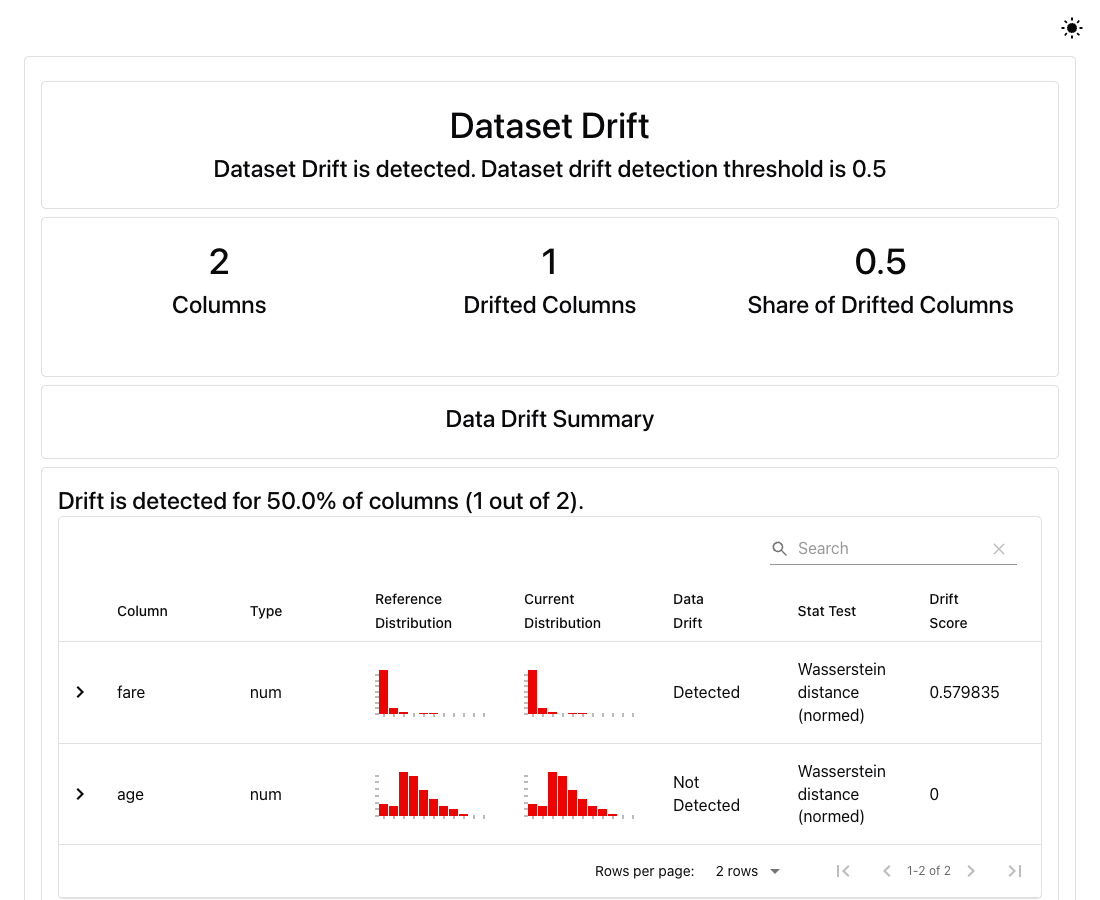
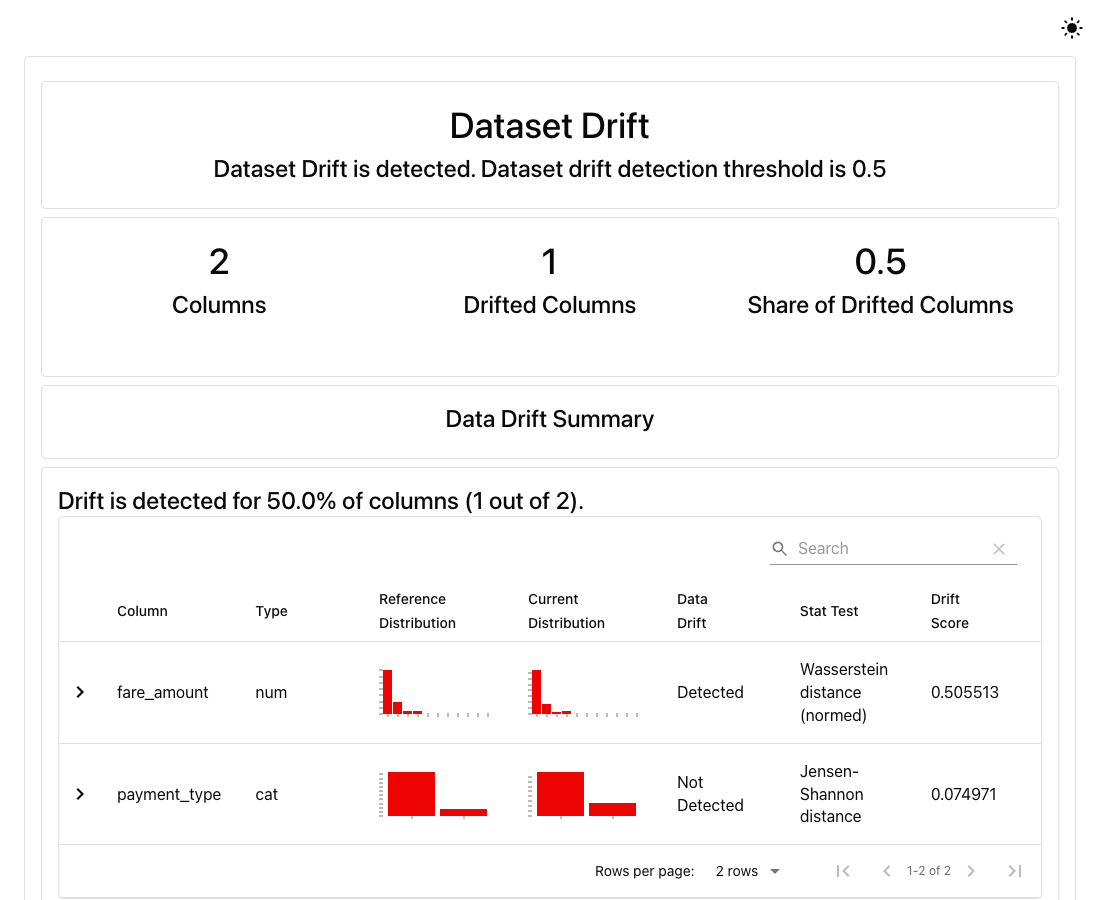
Compare dated NYC taxi batches and demonstrate numeric and categorical drift

diff --git a/seminar/evidently/quickstart/drift.py b/seminar/evidently/quickstart/drift.py
@@ -1,26 +1,55 @@
-"""Run from the repository root after downloading the Titanic ARFF."""
+"""Compare two days of NYC yellow taxi trips and simulate two data issues."""
 
 from pathlib import Path
 
+import pandas as pd
 from evidently import Report
 from evidently.presets import DataDriftPreset
 
-from src.prepare import read_titanic
+OUTPUT = Path("artifacts/evidently")
+SOURCE = OUTPUT / "yellow_tripdata_2023-11.parquet"
+
+
+def trips_on(date):
+    start = pd.Timestamp(date)
+    trips = pd.read_parquet(
+        SOURCE,
+        columns=["fare_amount", "payment_type"],
+        filters=[
+            ("tpep_pickup_datetime", ">=", start),
+            ("tpep_pickup_datetime", "<", start + pd.Timedelta(days=1)),
+            ("fare_amount", ">", 0),
+            ("fare_amount", "<=", 200),
+            ("payment_type", "in", [1, 2]),
+        ],
+    )
+    trips["payment_type"] = trips["payment_type"].map({1: "card", 2: "cash"})
+    print(date, len(trips), "trips; median fare:", trips["fare_amount"].median())
+    print(trips["payment_type"].value_counts(normalize=True).round(4))
+    return trips
 
 
 def main():
-    reference = read_titanic()[["fare", "age"]]
-    current = reference.copy()
-    output = Path("artifacts/evidently")
-    output.mkdir(parents=True, exist_ok=True)
+    reference = trips_on("2023-11-16")
+    current = trips_on("2023-11-23")
 
     for name, batch in [
         ("control", current),
-        ("shifted", current.assign(fare=current["fare"] + 30)),
+        ("shifted", current.assign(fare_amount=current["fare_amount"] + 10)),
+        ("payment", current.assign(payment_type="cash")),
     ]:
-        report = Report([DataDriftPreset(num_method="wasserstein", num_threshold=0.1)])
+        report = Report(
+            [
+                DataDriftPreset(
+                    num_method="wasserstein",
+                    num_threshold=0.1,
+                    cat_method="jensenshannon",
+                    cat_threshold=0.1,
+                )
+            ]
+        )
         result = report.run(current_data=batch, reference_data=reference)
-        result.save_html(str(output / f"{name}.html"))
+        result.save_html(str(OUTPUT / f"{name}.html"))
         print(name, result.json())
 
 

diff --git a/seminar/evidently/quickstart/README.md b/seminar/evidently/quickstart/README.md
@@ -1,13 +1,13 @@
 # Evidently за 10 минут
 
-Evidently — Python-библиотека для оценки данных и предсказаний моделей. Представь, что в сервис с моделью Titanic пришла новая партия пассажиров. Сначала хочется узнать, заполнены ли признаки, затем — похожи ли новые данные на привычные. Когда появятся фактические исходы, можно проверить и качество прогнозов. Для каждого из этих вопросов у Evidently есть готовый набор метрик. [Обзор библиотеки](https://docs.evidentlyai.com/docs/library/overview)
+Evidently — Python-библиотека для оценки данных и предсказаний моделей. Представь, что сервис прогноза выручки такси получил данные о поездках за сегодня. Сначала хочется узнать, заполнены ли признаки, затем — похожи ли новые данные на привычные. Когда появятся фактические исходы, можно проверить и качество прогнозов. Для каждого из этих вопросов у Evidently есть готовый набор метрик. [Обзор библиотеки](https://docs.evidentlyai.com/docs/library/overview)
 
 ## 1. Как устроена одна проверка
 
-| Понятие | Что это значит на Titanic |
+| Понятие | Пример из данных такси |
 |---|---|
-| **Current и reference** | Current — партия, которую проверяем. Reference — база сравнения, например пассажиры за прошлый период. Чтобы посчитать долю пропусков сегодня, хватит current. Для сравнения распределений нужны обе таблицы. [Работа с данными](https://docs.evidentlyai.com/docs/library/data_definition) |
-| **Dataset и DataDefinition** | Dataset содержит таблицу, DataDefinition задаёт смысл колонок. Для оценки модели указываем, где фактический исход и где прогноз. Для простого примера с числовыми признаками достаточно передать DataFrame. [Описание колонок](https://docs.evidentlyai.com/docs/library/data_definition) |
+| **Current и reference** | Current — партия, которую проверяем. Reference — база сравнения, например поездки за прошлый период. Чтобы посчитать долю пропусков сегодня, хватит current. Для сравнения распределений нужны обе таблицы. [Работа с данными](https://docs.evidentlyai.com/docs/library/data_definition) |
+| **Dataset и DataDefinition** | Dataset содержит таблицу, DataDefinition задаёт смысл колонок. Для оценки модели указываем, где фактическая выручка и где прогноз. Для простого примера с числовыми признаками достаточно передать DataFrame. [Описание колонок](https://docs.evidentlyai.com/docs/library/data_definition) |
 | **Metric и Preset** | Metric отвечает на один вопрос, например изменилось ли распределение `fare`. Preset собирает несколько связанных проверок. Для первого запуска удобен готовый `DataDriftPreset()`. [Каталог пресетов](https://docs.evidentlyai.com/metrics/all_presets) |
 | **Report и результат запуска** | `Report([...])` описывает, что посчитать. `.run(...)` выполняет расчёт. Результат можно открыть как интерактивный HTML или получить в Python через `.dict()`. [Отчёты](https://docs.evidentlyai.com/docs/library/report) · [Форматы вывода](https://docs.evidentlyai.com/docs/library/output_formats) |
 | **Test** | Условие для автоматического решения. Например, задание может требовать, чтобы доля пустых значений укладывалась в установленный предел. `include_tests=True` включает стандартные условия для поддерживаемых метрик. [Тесты и пороги](https://docs.evidentlyai.com/docs/library/tests) |
@@ -16,25 +16,38 @@ Evidently — Python-библиотека для оценки данных и п
 
 | Что хочешь узнать | Что взять | На что смотреть |
 |---|---|---|
-| Что пришло в таблице? | `DataSummaryPreset()` | Число строк, пропуски, уникальные значения и распределения. Например, какая доля пассажиров пришла без возраста. [Data Summary](https://docs.evidentlyai.com/metrics/preset_data_summary) |
+| Что пришло в таблице? | `DataSummaryPreset()` | Число строк, пропуски, уникальные значения и распределения. Например, у какой доли поездок пропущена стоимость. [Data Summary](https://docs.evidentlyai.com/metrics/preset_data_summary) |
 | Изменился ли вход модели? | `DataDriftPreset()` | Доля признаков со сдвигом и результат по каждому признаку. Это основной инструмент нашего доклада. [Data Drift](https://docs.evidentlyai.com/metrics/preset_data_drift) |
-| Насколько точны прогнозы? | `ClassificationPreset()` | Нужны фактический класс и прогноз. Для Titanic можно посмотреть accuracy, precision, recall и матрицу ошибок. Для числовой цели есть `RegressionPreset()`. [Классификация](https://docs.evidentlyai.com/metrics/preset_classification) · [Регрессия](https://docs.evidentlyai.com/metrics/preset_regression) |
+| Насколько точны прогнозы? | `ClassificationPreset()` | Нужны фактический класс и прогноз. Для классификатора можно посмотреть accuracy, precision, recall и матрицу ошибок. Для числовой цели есть `RegressionPreset()`. [Классификация](https://docs.evidentlyai.com/metrics/preset_classification) · [Регрессия](https://docs.evidentlyai.com/metrics/preset_regression) |
 
 ## 3. Как выглядит drift на настоящем отчёте
 
-В мониторинге reference и current часто задаются временем: например, стабильный период и сегодняшняя партия. Для учебного примера на Titanic моделируем изменение сами. Берём всех 1 309 пассажиров и сравниваем две колонки, `fare` и `age`. Reference — исходные данные, current — их копия. После контрольного прогона увеличиваем каждый известный тариф в current на 30. Пассажиры, возраст и пропуски в обеих таблицах совпадают. [Рабочий пример](drift.py#L11)
+Официальный файл NYC TLC за ноябрь 2023 года содержит **3 339 715 поездок** жёлтых такси. Берём два четверга по местному времени начала поездки. В обеих партиях одинаковые правила отбора: базовая стоимость от 0 (исключая) до 200 долларов включительно, оплата картой или наличными. Используем все подходящие строки. [Файл NYC TLC, Parquet](https://d37ci6vzurychx.cloudfront.net/trip-data/yellow_tripdata_2023-11.parquet) · [Код отбора](drift.py#L13)
 
-**До изменения.** В верхней карточке видно **0 из 2** признаков со сдвигом. В таблице ниже можно сверить гистограммы reference и current по каждой колонке.
+| Партия | Поездки | Медиана базовой стоимости | Доля наличных |
+|---|---:|---:|---:|
+| Reference, 16 ноября | 123 526 | $14,20 | 14,41% |
+| Current, 23 ноября (День благодарения) | 57 951 | $12,80 | 22,61% |
 
-![Контрольный отчёт Evidently для age и fare](control.png)
+**Как читать две разные колонки.** Для числовой `fare_amount` Evidently сравнивает распределения стоимости нормированным расстоянием Вассерштейна. Для категориальной `payment_type` он сравнивает доли категорий расстоянием Дженсена — Шеннона. Код преобразует коды 1 и 2 в названия `card` и `cash`. Для обоих методов задали порог 0,1. У каждой метрики своя шкала. [Методы и пороги](https://docs.evidentlyai.com/metrics/customize_data_drift)
 
-**После изменения.** В сводке теперь **1 из 2**. Чтобы понять причину, найди строку `fare`, сравни гистограммы и прочитай поля **Stat Test** и **Drift Score**. В интерактивном HTML стрелка слева раскрывает детали.
+| Сценарий | Стоимость | Способ оплаты | Где сработал детектор |
+|---|---:|---:|---|
+| Две реальные даты | 0,095 | 0,075 | Оба значения ниже порога |
+| К каждой поездке 23 ноября прибавили $10 | **0,506** | 0,075 | Стоимость |
+| В исходной партии 23 ноября все оплаты записали как наличные | 0,095 | **0,690** | Способ оплаты |
 
-![Отчёт Evidently после увеличения fare на 30](shifted.png)
+**Две реальные даты.** Доля наличных выросла примерно на 8,2 процентного пункта, но при выбранном пороге сигнал по оплате не сработал. Одной пары дней недостаточно, чтобы приписать разницу празднику.
 
-**Почему появился сигнал?** Для сравнения копий используем нормированное расстояние Вассерштейна. Оно показывает величину различия между распределениями. При сравнении одинаковых значений расстояние равно 0. После прибавления 30 к тарифу расстояние для `fare` составило **0,580** при заданном пороге **0,1**. Для `age` оно осталось равным 0. Число **0,5** в заголовке — порог доли признаков со сдвигом для сигнала по датасету. Сработал один из двух. [Как работает детектор](https://docs.evidentlyai.com/metrics/explainer_drift) · [Методы и пороги](https://docs.evidentlyai.com/metrics/customize_data_drift)
+![Реальные распределения за 16 и 23 ноября](control.png)
 
-**Как объяснить результат на семинаре?** Распределение тарифов изменилось. В реальном сервисе я бы проверил единицы тарифа и долю пассажиров каждого класса. Чтобы выяснить, повлиял ли сдвиг на качество модели, нужны прогнозы и соответствующие фактические исходы.
+**Числовой признак.** Имитация ошибки тарификации сместила распределение стоимости вправо. Смотри строку `fare_amount`, сравни гистограммы и значение Drift Score с порогом.
+
+![Сдвиг стоимости после надбавки в 10 долларов](shifted.png)
+
+**Категориальный признак.** Отдельно моделируем сбой в кодировании платежей: все поездки получили категорию `cash`. В отчёте изменилась доля категорий. После такого сигнала стоит проверить маппинг кодов и свериться с платёжной системой. Для вывода о качестве модели потребуются прогнозы и фактические результаты.
+
+![Сдвиг способа оплаты при ошибке кодирования](payment.png)
 
 ## 4. Как повторить локально
 
@@ -42,11 +55,12 @@ Evidently — Python-библиотека для оценки данных и п
 
 ```bash
 uv sync --locked
-uv run --locked python -m src.get_data
+mkdir -p artifacts/evidently
+curl -fL --retry 2 https://d37ci6vzurychx.cloudfront.net/trip-data/yellow_tripdata_2023-11.parquet -o artifacts/evidently/yellow_tripdata_2023-11.parquet
 uv run --locked --with 'evidently==0.7.23' python -m seminar.evidently.quickstart.drift
 ```
 
-Первая команда устанавливает окружение проекта. Вторая скачивает полный Titanic с OpenML. Третья запускает пример с Evidently 0.7.23. При первом запуске нужен интернет для загрузки данных и пакетов. Открой в браузере `artifacts/evidently/control.html`, затем `artifacts/evidently/shifted.html`. В терминале выводятся значения с полной точностью. [Официальный пример для табличных данных](https://docs.evidentlyai.com/quickstart_ml)
+Файл весит около 54 МиБ. Для повторной демонстрации достаточно последней команды. Открой в браузере `control.html`, `shifted.html` и `payment.html` в папке `artifacts/evidently/`. [Официальный пример Evidently](https://docs.evidentlyai.com/quickstart_ml)
 
 ## 5. Что ещё умеет Evidently
 

diff --git a/seminar/evidently/README.md b/seminar/evidently/README.md
@@ -2,7 +2,7 @@
 
 Александр Наумцев · семинар №2 «Трекинг экспериментов и наблюдаемость» · 30 ноября 2026 года.
 
-Начать подготовку можно с [ликбеза по Evidently с двумя отчётами на Titanic](quickstart/README.md).
+Начать подготовку можно с [ликбеза по Evidently на данных такси Нью-Йорка](quickstart/README.md).
 
 ## Задание
 
@@ -20,9 +20,9 @@
 
 ## План демонстрации
 
-1. **3 минуты.** На примере стоимости билета Titanic объяснить, что такое drift. Для проверки изменения качества модели понадобятся прогнозы и фактические исходы. [Описание данных](../../data/README.md)
-2. **12 минут.** Подготовить эталонную и текущую выборки. Показать контрольный отчёт, затем изменить только `fare` в текущей выборке и повторить проверку. Сопоставить распределения, значение статистики теста и порог срабатывания.
-3. **3 минуты.** Обсудить возможные причины сигнала, например смену единиц измерения или состава пассажиров, и объяснить, как проверить каждую гипотезу.
+1. **3 минуты.** На примере стоимости поездки на такси объяснить, что такое drift. Для проверки изменения качества модели понадобятся прогнозы и фактические исходы. [Данные и даты](quickstart/README.md#3-как-выглядит-drift-на-настоящем-отчёте)
+2. **12 минут.** Сравнить поездки за два четверга. Затем на одной и той же текущей партии отдельно показать надбавку к стоимости и ошибку кодирования способа оплаты. В каждом отчёте сопоставить результат для изменённого признака с порогом.
+3. **3 минуты.** Обсудить возможные причины сигнала, например смену правил тарификации или кодов оплаты, и объяснить, как проверить каждую гипотезу.
 4. **2 минуты.** Ответить на вопросы по тесту и результатам.
 
-К выступлению в этой папке будут собраны слайды, скрипт с командой запуска и два отчёта Evidently для сравнения.
+К выступлению в этой папке будут собраны слайды, скрипт с командой запуска и три отчёта Evidently для сравнения.
